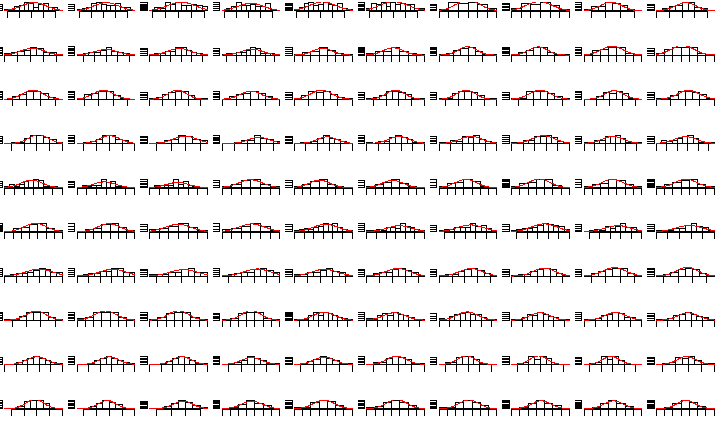
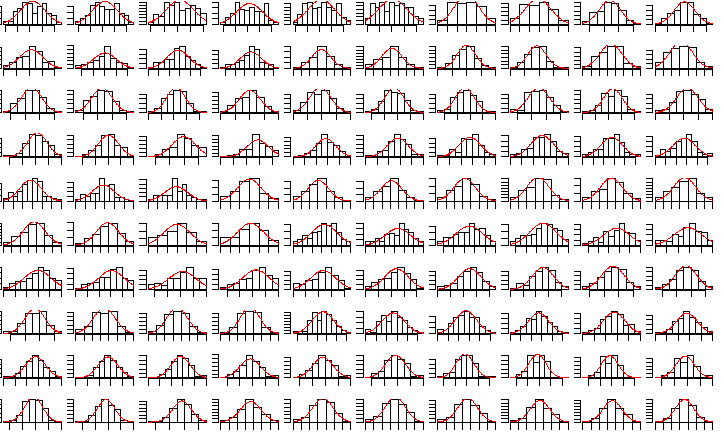
appendix report 1

diff --git a/reports/report1.tex b/reports/report1.tex
@@ -99,7 +99,7 @@ To get a visual grasp of the original data points projected onto the space of th
 \end{figure}
 \newpage
 
-\noindent In order to perform a series of ANOVAs, the variables need to be normally distributed and independent. This assumption is shown for a couple of variables below.
+\noindent In order to perform a series of ANOVAs, the variables need to be normally distributed and independent. This assumption is shown for a couple of variables below. The distributions for the rest of the variables are shown in the appendix.
 
 \begin{figure}[H]
 	\centering
@@ -108,7 +108,7 @@ To get a visual grasp of the original data points projected onto the space of th
 	\label{fig:normalaf}
 \end{figure}
 
-\noindent Here, it is easy to see that the datapoints are normally distributed or pretty close to be normally distributed. The rest of the datapoints are also normally distributed and can be seen in appendix. Thus, the assumption of ANOVA are fulfilled.  
+\noindent Here, it is easy to see that the datapoints are normally distributed or pretty close to be normally distributed. The rest of the datapoints are also normally distributed and can be seen in the appendix [\ref{fig:xdists}, \ref{fig:ydists}, \ref{fig:zdists}]. Thus, the assumption of ANOVA are fulfilled.  
 
 \section{Methods}
 %\textit{Describe the methods you used and why you decided to use them. Also discuss the assumptions behind the methods. Do not go into detail with theory.}
@@ -243,7 +243,7 @@ For the test of whether experiment has a significant effect on the resulting cur
 	\caption{This figure shows some of the residuals from the ANOVA models constructed. Furthermore, it is seen that most the residuals from the constructed models are normally distributed. }
 	\label{fig:stadignormalfordeltaf}
 \end{figure} \noindent \vspace*{-0.1cm}
- Figure \ref{fig:stadignormalfordeltaf} represents some of the constructed model residuals. It is revealed that most of the residuals from the constructed models are normally distributed, which makes the analysis of variance valid. Some of the residuals are not normally distributed, an example is z100, seen in figure \ref{fig:stadignormalfordeltaf}. On the other hand $ 86.67 $ \% of the p-values are below $ 0.05 $ which make experiment extremely significant. Thus, if some of the p-values are removed  experiment would still be significant for the resulting curve. The finding also makes sense, since each experiment has different heights in which the test participants have to move the cylindrical object. 
+ Figure \ref{fig:stadignormalfordeltaf} represents some of the constructed model residuals. The distributions for the rest of the model residuals are given in the appendix [\ref{fig:residu1}, \ref{fig:residu2}, \ref{fig:residu3}] It is revealed that most of the residuals from the constructed models are normally distributed, which makes the analysis of variance valid. Some of the residuals are not normally distributed, an example is z100, seen in figure \ref{fig:stadignormalfordeltaf}. On the other hand $ 86.67 $ \% of the p-values are below $ 0.05 $ which make experiment extremely significant. Thus, if some of the p-values are removed  experiment would still be significant for the resulting curve. The finding also makes sense, since each experiment has different heights in which the test participants have to move the cylindrical object. 
 
 
 \section{Conclusion} \vspace*{-0.1cm}
@@ -257,6 +257,48 @@ In conclusion, it is clear that security and access authorization could stand to
 \section{Appendix}
 Link to GitHub to see code:
 \url{https://github.com/oskarwiese/project02445.git}
+
+\begin{figure}[H]
+	\centering
+	\includegraphics[width=0.9\linewidth]{billeder/x_dists}
+	\caption{The distributions for every x-variable of the data.}
+	\label{fig:xdists}
+\end{figure}
+
+\begin{figure}[H]
+	\centering
+	\includegraphics[width=0.9\linewidth]{billeder/y_dists}
+	\caption{The distributions for every y-variable of the data.}
+	\label{fig:ydists}
+\end{figure}
+
+\begin{figure}[H]
+	\centering
+	\includegraphics[width=0.9\linewidth]{billeder/z_dists}
+	\caption{The distributions for every z-variable of the data.}
+	\label{fig:zdists}
+\end{figure}
+
+\begin{figure}
+	\centering
+	\includegraphics[width=0.9\linewidth]{billeder/residu1}
+	\caption{The distributions of the model residuals from every model constructed by subsetting for every x-variable.}
+	\label{fig:residu1}
+\end{figure}
+
+\begin{figure}
+	\centering
+	\includegraphics[width=0.9\linewidth]{billeder/residu2}
+	\caption{The distributions of the model residuals from every model constructed by subsetting for every y-variable.}
+	\label{fig:residu2}
+\end{figure}
+	
+\begin{figure}
+	\centering
+	\includegraphics[width=0.9\linewidth]{billeder/residu3}
+	\caption{The distributions of the model residuals from every model constructed by subsetting for every z-variable.}
+	\label{fig:residu3}
+\end{figure}	
 	
 \bibliographystyle{IEEEbib}
 \bibliography{refs}
